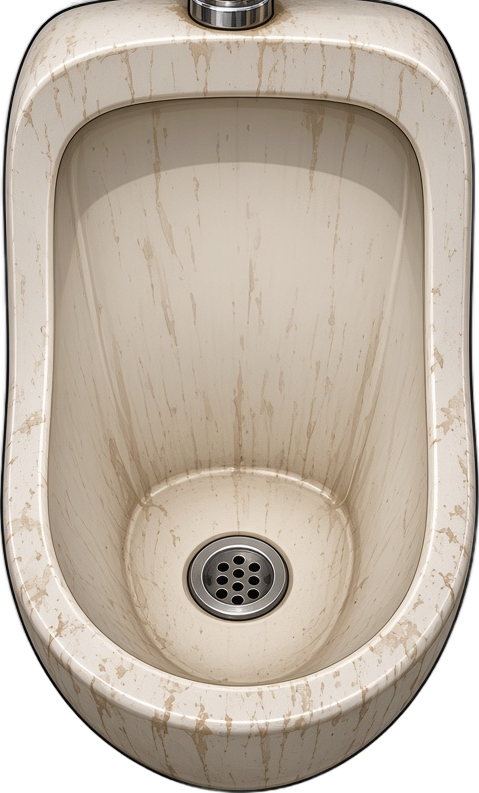
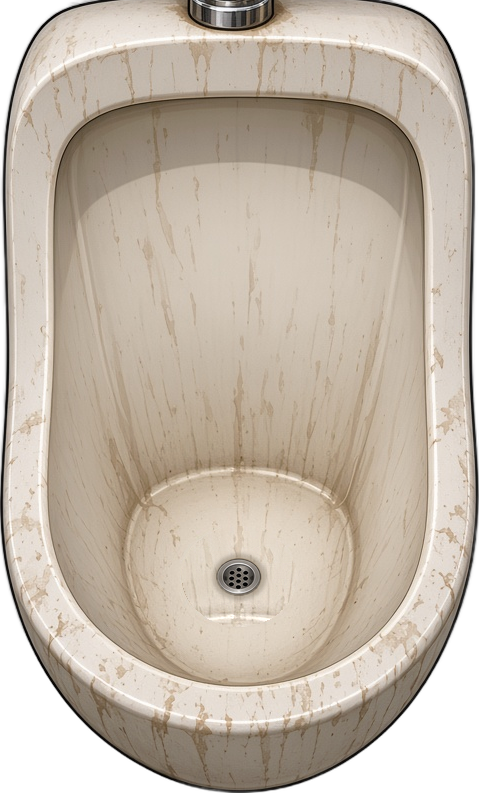
Bladder Brawl v4: stream falls from above with perspective, small drain, ricochet kicks, final boss retune

Changed region(s): [[0.38, 0.6658, 0.6138, 0.7869]]

diff --git a/bladder-brawl/game.js b/bladder-brawl/game.js
@@ -24,7 +24,7 @@ const BT={
  baby:{name:'Spiderling',r:12,hp:6,spd:44,pts:7,res:.1},
  bfly:{name:'BARON BLOWFLY',r:44,hp:520,spd:12,pts:300,res:.85,boss:1},
  bsnail:{name:'GENERAL GOO',r:46,hp:1100,spd:9,pts:500,res:.9,boss:1},
- bspider:{name:'MAMA LEGS',r:52,hp:1900,spd:10,pts:800,res:.9,boss:1}
+ bspider:{name:'MAMA LEGS',r:52,hp:1550,spd:10,pts:800,res:.9,boss:1}
 };
 const CH=[
  {n:'Gas Station Restroom',s:'Cracked tiles. Mystery smells. Bugs.',wall:['#3fa7a3','#2a7d83'],grout:'rgba(10,40,50,.35)',deco:'gas'},
@@ -105,8 +105,8 @@ function layout(){
   // urinal (sprite 479x793): interior top 13.5%, U-bottom 86%, drain at 72.9%
   const AR=793/479,avail=L.base-L.feet-(L.top+34);const Uh=Math.min(W*.96*AR,avail),Uw=Uh/AR;
   L.U={x:(W-Uw)/2,y:L.base-L.feet-Uh,w:Uw,h:Uh};
-  L.rimY=L.U.y+Uh*.08;L.spawnY=L.U.y+Uh*.83;L.bowlBot=L.U.y+Uh*.86;L.waterY=L.U.y+Uh*.729;L.drainX=L.U.x+Uw*.493;L.drainR=Uw*.075;
-  L.oy=H+14;L.wallH=L.bowlBot-L.rimY;
+  L.rimY=L.U.y+Uh*.08;L.spawnY=L.U.y+Uh*.83;L.bowlBot=L.U.y+Uh*.86;L.waterY=L.U.y+Uh*.729;L.drainX=L.U.x+Uw*.493;L.drainR=Uw*.048;
+  L.oy=L.bowlBot+14;L.wallH=L.bowlBot-L.rimY;
 }
 function resize(){const vw=innerWidth,vh=innerHeight;const ww=Math.min(vw,vh*0.62,560);SC=ww/W;H=Math.round(vh/SC);DPR=Math.min(2,devicePixelRatio||1);
   cv.style.width=ww+'px';cv.style.height=vh+'px';cv.width=Math.round(ww*DPR);cv.height=Math.round(vh*DPR);$('app').style.width=ww+'px';layout();bgKey='';}
@@ -177,14 +177,15 @@ function update(dt){
   if(G.dry&&G.bladder>=st.cap*.3)G.dry=false;
   G.firing=want&&!G.dry;
   if(G.firing){if(G.super<=0)G.bladder=Math.max(0,G.bladder-dt*11);}else G.bladder=Math.min(st.cap,G.bladder+dt*st.refill*(want?.5:1));
-  const ox=200+clamp((G.aim.x-200)*.06,-10,10),oy=L.oy;G.ox=ox;if(!SIMMODE)SCN.aimJitter(dt);
+  const ox=200+clamp((G.aim.x-200)*.06,-10,10),oy=L.bowlBot+14;/* virtual launch point (keeps v2 reach/lag) */G.ox=200+(G.aim.x-200)*.28+Math.sin(G.t*1.1)*7+Math.sin(G.t*2.7)*2;G.oy=-36+Math.sin(G.t*1.7)*3;if(!SIMMODE)SCN.aimJitter(dt);
   if(G.firing){G.emit+=dt*(SIMMODE?36:72);const per=SIMMODE?2:1;const dx=G.aim.x-ox,dy=G.aim.y-oy;const d=Math.min(Math.hypot(dx,dy),st.range),a0=Math.atan2(dy,dx);
     const offs=st.streams===1?[0]:st.streams===2?[-.1,.1]:[-.17,0,.17];
-    while(G.emit>=1){G.emit-=1;G.seq++;offs.forEach((off,si)=>{const a=a0+off+Math.sin(G.t*13+si)*.012,dd=d*(off?.97:1)*(1+.012*Math.sin(G.t*9+si));const tx2=ox+Math.cos(a)*dd,ty2=oy+Math.sin(a)*dd;const tf=.15+Math.max(0,Math.hypot(tx2-ox,ty2-oy)-(L.oy-L.bowlBot-14))/1500,g=900;
-      G.drops.push({x:ox,y:oy,vx:(tx2-ox)/tf,vy:(ty2-oy)/tf-.5*g*tf,age:0,tf,sid:si,seq:G.seq,dmg:st.dps/72*per*(off?.62:1),kb:st.kb/72*per*(off?.7:1)*6,rad:st.rad*(off?.85:1)});});}
+    while(G.emit>=1){G.emit-=1;G.seq++;offs.forEach((off,si)=>{const a=a0+off+Math.sin(G.t*13+si)*.012,dd=d*(off?.97:1)*(1+.012*Math.sin(G.t*9+si));const tx2=ox+Math.cos(a)*dd,ty2=oy+Math.sin(a)*dd;const tf=.15+Math.hypot(tx2-ox,ty2-oy)/1500;
+      G.drops.push({x:G.ox,y:G.oy,ox:G.ox+(si-(st.streams-1)/2)*5,oy:G.oy,tx:tx2,ty:ty2,u:0,age:0,tf,sid:si,seq:G.seq,dmg:st.dps/72*per*(off?.62:1),kb:st.kb/72*per*(off?.7:1)*6,rad:st.rad*(off?.85:1)});});}
+    if(!SIMMODE&&G.drops.length>6&&rnd()<dt*22){const d=G.drops[Math.floor(rnd()*G.drops.length)];if(!d.dribble&&d.u>.2&&d.u<.9)G.parts.push({k:'drop',x:d.x+rand(-3,3),y:d.y,vx:rand(-30,30),vy:rand(80,200),t:0,life:rand(.15,.3),r:rand(1,2.4)*(1.4-d.u),col:'#ffe27a'});}
     if(!SIMMODE)streamSnd(1,2300+S.up.pres*300+(G.super>0?700:0));
-  }else{G.emit=0;if(!SIMMODE){streamSnd(0);if(want&&G.dry&&rnd()<dt*5){SFX.sput();G.drops.push({x:ox,y:oy,vx:rand(-50,50),vy:rand(-240,-160),age:0,tf:.5,sid:9,seq:-99,dmg:0,kb:0,rad:0,dribble:1});}}}
-  for(let i=G.drops.length-1;i>=0;i--){const d=G.drops[i];d.vy+=900*dt;d.x+=d.vx*dt;d.y+=d.vy*dt;d.age+=dt;if(d.age>=d.tf){G.drops.splice(i,1);if(!d.dribble)impact(d);}}
+  }else{G.emit=0;if(!SIMMODE){streamSnd(0);if(want&&G.dry&&rnd()<dt*5){SFX.sput();G.drops.push({x:G.ox+rand(-6,6),y:-6,vx:rand(-20,20),vy:rand(260,340),age:0,tf:.5,sid:9,seq:-99,dmg:0,kb:0,rad:0,dribble:1});}}}
+  for(let i=G.drops.length-1;i>=0;i--){const d=G.drops[i];d.age+=dt;if(d.dribble){d.vy+=900*dt;d.x+=d.vx*dt;d.y+=d.vy*dt;}else streamPos(d);if(d.age>=d.tf){G.drops.splice(i,1);if(!d.dribble)impact(d);}}
   for(let i=G.parts.length-1;i>=0;i--){const p=G.parts[i];p.t+=dt;if(p.t>=p.life){G.parts.splice(i,1);continue;}p.x+=p.vx*dt;p.y+=p.vy*dt;if(p.k==='drop')p.vy+=800*dt;}
   for(let i=G.pops.length-1;i>=0;i--){const p=G.pops[i];p.t+=dt;if(p.t>=p.dur)G.pops.splice(i,1);}
   for(let i=G.stains.length-1;i>=0;i--){const s=G.stains[i];s.a-=dt*(G.flushFx?.8:.03);if(s.a<=0)G.stains.splice(i,1);}
@@ -201,11 +202,15 @@ function update(dt){
   if(G.lives>0&&!G.queue.length&&!G.bugs.length){if(G.clearT<0)G.clearT=0;G.clearT+=dt;if(G.clearT>1){G.clearT=-1;endLevel(true);}}
   if(!SIMMODE&&!BOT.on){/* tutorial nudge */}
 }
+/* stream falls from the player above the camera: quadratic arc O->T, accelerating (gravity), perspective handled in drawStream */
+function streamPos(d){const u=Math.min(1,d.age/d.tf),e=u*(.55+.45*u),cx=d.ox+(d.tx-d.ox)*.62+(d.tx>d.ox?-1:1)*Math.min(40,Math.abs(d.tx-d.ox)*.3),cy=d.oy+(d.ty-d.oy)*.22,m=1-e;d.u=e;
+  d.x=m*m*d.ox+2*m*e*cx+e*e*d.tx+Math.sin(d.seq*.9+d.age*30)*1.6*m;d.y=m*m*d.oy+2*m*e*cy+e*e*d.ty;d.x=e>=1?d.tx:d.x;d.y=e>=1?d.ty:d.y;}
 function impact(d){const x=d.x,y=d.y;if(!SIMMODE&&SCN.impact(d))return;if(y<L.rimY-16){if(!SIMMODE&&rnd()<.3)G.parts.push({k:'drop',x,y,vx:rand(-60,60),vy:rand(-60,30),t:0,life:.5,r:2,col:'#ffe56b'});return;}
   const r2=d.rad;for(const b of G.bugs){if(b.dead||b.esc!=null)continue;const R=BT[b.type].r+r2,dx=b.x-x,dy=b.y-y;if(dx*dx+dy*dy<R*R)damage(b,d.dmg,d.kb);}
   if(G.power&&!G.power.got&&Math.hypot(G.power.x-x,G.power.y-y)<r2+20){const p=G.power;p.got=true;p.t=0;G.bladder=stats().cap;G.super=6;pop(p.x,p.y-20,'MEGA STREAM!','#9fffd0',26,1.3);burst(p.x,p.y,14,'#9fffd0',260);G.bounce=1;if(!SIMMODE){SFX.power();vib(40);}}
   if(SIMMODE)return;
-  if(rnd()<.55)G.parts.push({k:'drop',x:x+rand(-r2,r2)*.4,y,vx:rand(-130,130),vy:rand(-200,-60),t:0,life:rand(.25,.45),r:rand(1.6,3.4),col:'#ffe56b'});
+  const dk=.55+.75*clamp((y-L.rimY)/L.wallH,0,1);SCN.splash(x,y,dk);
+  if(rnd()<.6)G.parts.push({k:'drop',x:x+rand(-r2,r2)*.4,y,vx:rand(-130,130)*dk,vy:rand(-200,-60)*dk,t:0,life:rand(.25,.45),r:rand(1.4,3.2)*dk,col:'#ffe56b'});
   if(rnd()<.1){G.stains.push({x:x+rand(-8,8),y:y+rand(-6,6),r:rand(6,14),a:.3});if(G.stains.length>60)G.stains.shift();}}
 function updBug(b,dt){const T=BT[b.type];b.t+=dt;b.spawnT+=dt;b.sqT+=dt;if(b.hitT>0){b.hitT-=dt;if(b.hitT<=0&&!b.dead)b.mood=b.type==='bspider'?2:0;}
   b.bl-=dt;if(b.bl<=0){b.bl=rand(2,5);}b.blink=b.bl<.12?1:0;
@@ -221,7 +226,7 @@ function updBug(b,dt){const T=BT[b.type];b.t+=dt;b.spawnT+=dt;b.sqT+=dt;if(b.hit
    case 'snail':case 'bsnail':if(b.hide>0){b.hide-=dt;up=0;}if(b.type==='bsnail'){vx=Math.sin(b.t*.6)*30;b.cd-=dt;if(b.cd<=0){b.cd=4.2;for(const s of[-1,1])spawn({type:'ant',x:clamp(b.x+s*50,70,330),y:b.y+10}).spawnT=0;}}break;
    case 'gecko':if(b.noTail)up*=1.35;b.mvT-=dt;if(b.mvT<=0){b.dir=-b.dir;b.mvT=rand(.4,.75);}vx=b.dir*up*1.1;up*=.8;break;
    case 'bfly':vx=Math.sin(b.t*.8)*50;b.cd-=dt;if(b.cd<=0){b.cd=3.4;for(const s of[-1,1])spawn({type:rnd()<.5?'fly':'mosq',x:clamp(b.x+s*50,70,330),y:b.y+10}).spawnT=0;}break;
-   case 'bspider':vx=Math.sin(b.t*.7)*40;b.cd-=dt;if(b.cd<=0){b.cd=2.8;for(const s of[-1,0,1])spawn({type:'baby',x:clamp(b.x+s*55,70,330),y:b.y+16}).spawnT=0;}break;
+   case 'bspider':vx=Math.sin(b.t*.7)*40;b.cd-=dt;if(b.cd<=0){b.cd=3.3;for(const s of[-1,0,1])spawn({type:'baby',x:clamp(b.x+s*55,wallL(b.y+16)+14,wallR(b.y+16)-14),y:b.y+16}).spawnT=0;}break;
   }
   if(b.spawnT<.35){up*=.2;vx*=.2;}if(G.flushFx&&!T.boss&&G.flushFx.t<1.3)up=0;
   const vy=-up+b.kbV;b.kbV*=Math.exp(-dt*5);b.x+=vx*dt;b.y+=vy*dt;
@@ -270,12 +275,19 @@ function render(){const c=cx;c.setTransform(DPR*SC,0,0,DPR*SC,0,0);
   hudTick();
 }
 function drawStream(c){if(!G.drops.length)return;const by={};for(const d of G.drops){if(d.dribble){circ(c,d.x,d.y,2.5);c.fillStyle='#ffe56b';c.fill();continue;}(by[d.sid]=by[d.sid]||[]).push(d);}
-  const st=stats();for(const k in by){const a=by[k].sort((p,q)=>q.seq-p.seq);const segs=[];let cur=[a[0]];for(let i=1;i<a.length;i++){if(a[i-1].seq-a[i].seq>2){segs.push(cur);cur=[];}cur.push(a[i]);}segs.push(cur);
-    for(const s of segs){if(s.length<2)continue;const w=st.w*(k>0?.8:1);c.lineCap='round';c.lineJoin='round';
-      const path=()=>{c.beginPath();c.moveTo(s[0].x,s[0].y);for(let i=1;i<s.length;i++)c.lineTo(s[i].x,s[i].y);};
-      path();c.strokeStyle='rgba(120,80,0,.35)';c.lineWidth=w+5;c.stroke();path();c.strokeStyle=G.super>0?'#7dffc4':'#ffc928';c.lineWidth=w+1.5;c.stroke();path();c.strokeStyle=G.super>0?'#e5fff3':'#fff19a';c.lineWidth=w*.45;c.stroke();
-      const e=s[s.length-1];c.globalAlpha=.8;circ(c,e.x,e.y,w*.9);c.fillStyle='#fff6c0';c.fill();c.globalAlpha=1;
-      for(let i=2;i<s.length;i+=6){const d=s[i];c.fillStyle='rgba(255,255,255,.85)';circ(c,d.x+Math.sin(d.seq)*w*.3,d.y,1.4);c.fill();}}}}
+  const st=stats(),sup=G.super>0;c.lineCap='round';
+  for(const k in by){const a=by[k].sort((p,q)=>q.seq-p.seq);const segs=[];let cur=[a[0]];for(let i=1;i<a.length;i++){if(a[i-1].seq-a[i].seq>2){segs.push(cur);cur=[];}cur.push(a[i]);}segs.push(cur);
+    for(const s of segs){const z=s[s.length-1];if(z.u>.5)s.push({x:z.tx,y:z.ty,u:1,seq:z.seq-1});if(s.length<2)continue;const w0=st.w*(k>0?.8:1);
+      // depth: near the camera (top, u~0) the stream is thick and soft; far end (impact) thin and crisp
+      const W_=d=>w0*(3.6-2.7*d.u);
+      const pass=(col,mul,alpha,from)=>{c.strokeStyle=col;for(let i=from||1;i<s.length;i++){const p=s[i-1],q=s[i];c.globalAlpha=typeof alpha==='function'?alpha(q):alpha;c.lineWidth=W_(q)*mul;c.beginPath();c.moveTo(p.x,p.y);c.lineTo(q.x,q.y);c.stroke();}};
+      pass(sup?'rgba(120,255,200,1)':'rgba(255,214,60,1)',1.9,d=>.16*(1-d.u));           // soft near-camera blur halo
+      pass('rgba(110,70,0,1)',1.12,d=>.22+.2*d.u);                                       // contact edge, sharper when far
+      pass(sup?'#7dffc4':'#ffc928',1,d=>.55+.3*d.u);                                      // translucent body
+      pass(sup?'#f0fff8':'#fff3a8',.38,d=>.5+.4*d.u);                                     // highlight
+      c.globalAlpha=1;
+      const e=s[s.length-1];if(e.u>.98){c.globalAlpha=.75;circ(c,e.x,e.y,w0*.85);c.fillStyle='#fff6c0';c.fill();c.globalAlpha=1;}
+      for(let i=3;i<s.length;i+=5){const d=s[i];c.fillStyle='rgba(255,255,255,.8)';circ(c,d.x+Math.sin(d.seq)*W_(d)*.25,d.y,.8+1.4*(1-d.u));c.fill();}}}}
 /* ---------------- HUD / UI ---------------- */
 let hudLast={};
 function hudInit(){$('hud').classList.add('on');$('bossbar').classList.remove('on');$('hLvl').textContent='Level '+curL;hudLast={};hudHearts();hudFlush();}

diff --git a/bladder-brawl/scene.js b/bladder-brawl/scene.js
@@ -9,15 +9,15 @@ const SCN=(function(){
   const DOOR=["HURRY UP!","YOU DIED IN THERE?!","OTHER PEOPLE GOTTA GO!","BRO. COME ON."];
   let S;
   function reset(){S={t:0,ev:null,feet:[{side:-1,wet:0,jerk:9},{side:1,wet:0,jerk:9}],kicks:0,kickCD:0,hopCD:0,bub:null,kickShow:0,
-    puddles:[],phone:{t:R(14,22),buzz:0,dead:0,shake:0},can:{st:0,hit:0,x:0,y:0,vx:0,vy:0,r:0},
+    puddles:[],rip:[],streaks:[],ripT:0,phone:{t:R(14,22),buzz:0,dead:0,shake:0},can:{st:0,hit:0,x:0,y:0,vx:0,vy:0,r:0},
     target:{t:R(9,15),on:0,hit:0},door:{t:R(24,38),fx:0},pipe:{shake:0,glug:0,lastQ:null,lever:0},cache:{}};}
   reset();
   const U=()=>L.U;
   // ---------- geometry ----------
   function footGeo(f){const hS=Math.min(170,L.feet*1.75),w=hS*.715;return {x:f.side<0?W*.27:W*.73,base:H+hS*.14,h:hS,w};}
   function pipeGeo(){const u=U(),h=u.h*.44,w=h*354/700;return {x:W/2,bot:u.y+u.h*.05,h,w,top:u.y+u.h*.05-h};}
-  function phonePos(){const u=U();return {x:u.x+u.w*.2,y:u.y+u.h*.055,h:Math.max(30,u.h*.075)};}
-  function canHome(){const u=U();return {x:u.x+u.w*.8,y:u.y+u.h*.055,h:Math.max(30,u.h*.075)};}
+  function phonePos(){const u=U();return {x:u.x+u.w*.15,y:u.y+u.h*.06,h:Math.max(30,u.h*.075)};}
+  function canHome(){const u=U();return {x:u.x+u.w*.85,y:u.y+u.h*.06,h:Math.max(30,u.h*.075)};}
   function sfx(k){if(typeof AU==='undefined'||!AU.ctx||AU.ctx.state!=='running'||!S)return;try{
     if(k==='bleep')tone('sine',1050,1040,.38,.16);
     else if(k==='splat'){nz(.2,.3,900,250,1.2);}
@@ -45,7 +45,9 @@ const SCN=(function(){
     // fly-target sticker (does not consume: the stream still hits bugs)
     const tg=S.target;if(tg.on>0&&near(x,y,tg,20)){tg.hit+=1;if(tg.hit>=10){tg.on=0;G.earned+=6;pop(tg.x,tg.y-30,'BULLSEYE! +6','#ffd23a',20,1.1);sfx('ding');burst(tg.x,tg.y,14,'#ffd23a',220);}}
     // sneakers
-    for(const f of S.feet){const g=footGeo(f);if(Math.abs(x-g.x)<g.w*.42&&y>g.base-g.h*.98&&y<g.base-g.h*.25){kick(f,x,y);return true;}}
+    for(const f of S.feet){const g=footGeo(f);if(Math.abs(x-g.x)<g.w*.6&&y>g.base-g.h*1.2){const sx=g.x+(Math.random()-.5)*g.w*.4,sy=g.base-g.h*(.55+Math.random()*.3);
+      for(let i=0;i<3;i++)G.parts.push({k:'drop',x,y,vx:(sx-x)/.35+(Math.random()-.5)*40,vy:(sy-y)/.35-140,t:0,life:.35,r:2.2,col:'#ffe56b'});burst(x,y,3,'#ffe56b',90);
+      if(!S.pend)S.pend={f,t:.3,x:sx,y:sy};return true;}}
     // inside the urinal or on the rim: normal gameplay
     if(y<L.rimY-16&&y>u.y-6&&x>u.x+u.w*.08&&x<u.x+u.w*.92)return false;
     if(y>=L.rimY-16&&y<=L.bowlBot+8&&x>wallL(y)-6&&x<wallR(y)+6)return false;
@@ -57,10 +59,12 @@ const SCN=(function(){
     const tier=Math.min(2,Math.floor((S.kicks-1)/2));S.bub={txt:pick(LINES[tier]),t:0,side:f.side,tier};
     const pen=Math.min(G.earned,2+tier*2);G.earned-=pen;pop(W/2,H-L.feet*1.9,'KICKS RUINED x'+S.kicks+(pen?'  -'+pen:''),'#ff8a5c',15,1.3);
     sfx('splat');sfx('bleep');if(typeof vib==='function')vib(30);}
+  function splash(x,y,k){if(!S)return;if(S.ripT<=0){S.ripT=.11;S.rip.push({x,y,k,t:0});if(S.rip.length>8)S.rip.shift();}
+    if(Math.random()<.05&&S.streaks.length<22&&y<L.waterY-70){const v=L.drainX-x,len=L.waterY-y;S.streaks.push({x,y,dx:v/Math.max(1,len),len:0,max:len*(.5+Math.random()*.45),v:60+Math.random()*60,t:0,w:(1.5+Math.random()*2)*k});}}
   function onPipe(x,y){if(!S||G.state!=='play'||G.paused)return false;const p=pipeGeo();return Math.abs(x-p.x)<Math.max(34,p.w*.75)&&y>p.top+p.h*.2&&y<p.top+p.h*.78;}
   function aimJitter(dt){if(S&&S.phone.buzz>0&&G.firing){G.aim.x+=Math.sin(S.t*37)*2.2;G.aim.y+=Math.cos(S.t*29)*1.4;}}
   // ---------- update ----------
-  function update(dt){if(!S)return;S.t+=dt;if(S.ev)S.ev.t+=dt;S.kickCD-=dt;S.hopCD-=dt;S.kickShow-=dt;
+  function update(dt){if(!S)return;S.t+=dt;if(S.pend){S.pend.t-=dt;if(S.pend.t<=0){kick(S.pend.f,S.pend.x,S.pend.y);S.pend=null;}}S.ripT-=dt;for(const r of S.rip)r.t+=dt;S.rip=S.rip.filter(r=>r.t<.5);for(const k of S.streaks){k.t+=dt;k.len=Math.min(k.max,k.len+dt*k.v);}S.streaks=S.streaks.filter(k=>k.t<3.2);if(S.ev)S.ev.t+=dt;S.kickCD-=dt;S.hopCD-=dt;S.kickShow-=dt;
     for(const f of S.feet)f.jerk+=dt;if(S.bub){S.bub.t+=dt;if(S.bub.t>1.9)S.bub=null;}
     if(S.ev&&S.ev.k!=='win'&&S.ev.k!=='lose'&&S.ev.t>1)S.ev=null;
     for(const p of S.puddles)p.a=Math.min(.55,p.a+dt*2);
@@ -78,7 +82,9 @@ const SCN=(function(){
     if(P.glug>0&&Math.random()<dt*14)G.parts.push({k:'bub',x:L.drainX+R(-L.drainR,L.drainR),y:L.waterY,vx:R(-10,10),vy:R(-60,-25),t:0,life:.6,r:R(2,5),col:'rgba(220,240,255,.8)'});
   }
   // ---------- drawing ----------
-  function drawBack(c){if(!S)return;
+  function drawBack(c){if(!S)return;drawPipe(c);
+    for(const k of S.streaks){const a=Math.min(1,k.t*3)*Math.max(0,1-(k.t-2.2));if(a<=0)continue;c.globalAlpha=a*.28;c.strokeStyle='#d9b52a';c.lineWidth=k.w;c.lineCap='round';c.beginPath();c.moveTo(k.x,k.y);c.quadraticCurveTo(k.x+k.dx*k.len*.3,k.y+k.len*.5,k.x+k.dx*k.len*.9,k.y+k.len);c.stroke();c.globalAlpha=a*.5;c.fillStyle='#e8c94a';c.beginPath();c.arc(k.x+k.dx*k.len*.9,k.y+k.len,k.w*.9,0,6.283);c.fill();}
+    for(const r of S.rip){const q=r.t/.5;c.globalAlpha=(1-q)*.55;c.strokeStyle='#fff6c8';c.lineWidth=1.5;c.beginPath();c.ellipse(r.x,r.y,(6+22*q)*r.k,(3+9*q)*r.k,0,0,6.283);c.stroke();}c.globalAlpha=1;
     for(const p of S.puddles){c.globalAlpha=p.a;c.beginPath();c.ellipse(p.x,p.y,p.r*(p.floor?1.6:1),p.r*(p.floor?.55:.9),0,0,6.283);c.fillStyle='#f2cf2c';c.fill();}c.globalAlpha=1;
     const tg=S.target;if(tg.on>0){const a=Math.min(1,tg.on,(7-tg.on)*3);c.save();c.globalAlpha=a*.95;c.translate(tg.x,tg.y);const s=1+Math.sin(S.t*6)*.06;c.scale(s,s);
       c.strokeStyle='#e8233f';c.lineWidth=3;for(const r of [18,11]){c.beginPath();c.arc(0,0,r,0,6.283);c.stroke();}c.fillStyle='#e8233f';c.beginPath();c.arc(0,0,4,0,6.283);c.fill();
@@ -128,7 +134,7 @@ const SCN=(function(){
     if(P.lever>0){c.globalCompositeOperation='lighter';c.globalAlpha=P.lever*.8;c.fillStyle='#bff0ff';c.beginPath();c.ellipse(p.w*.18,p.h*.45,p.w*.4,p.h*.08,0,0,6.283);c.fill();c.globalCompositeOperation='source-over';c.globalAlpha=1;}
     else if(G.flushes>0&&G.danger){c.globalAlpha=.5+.4*Math.sin(S.t*8);c.strokeStyle='#7dffb0';c.lineWidth=3;c.beginPath();c.ellipse(0,p.h*.46,p.w*.62,p.h*.12,0,0,6.283);c.stroke();c.globalAlpha=1;}
     c.restore();}
-  function drawFront(c){if(!S)return;drawPipe(c);drawFeet(c);bubble(c);
+  function drawFront(c){if(!S)return;drawFeet(c);bubble(c);
     const dr=S.door;if(dr.fx>0){const a=Math.min(1,dr.fx*1.5);c.save();c.globalAlpha=a;c.font='26px '+FONT;c.textAlign='center';c.lineWidth=6;c.strokeStyle='#111';c.fillStyle='#ffd23a';const y=L.U.y-6+Math.sin(S.t*30)*2*a;c.translate(W/2,y);c.rotate(-.05);c.strokeText(dr.txt,0,0);c.fillText(dr.txt,0,0);c.restore();}}
-  return {reset,update,impact,drawBack,drawFront,ev,onPipe,aimJitter,_pose:f=>footPose(f),_geo:f=>footGeo(f),get st(){return S;}};
+  return {splash,reset,update,impact,drawBack,drawFront,ev,onPipe,aimJitter,_pose:f=>footPose(f),_geo:f=>footGeo(f),get st(){return S;}};
 })();

diff --git a/bladder-brawl/BALANCE.md b/bladder-brawl/BALANCE.md
@@ -36,3 +36,13 @@ presentation/bonus only and are disabled in `?sim`. Bot sim re-run (6 runs/level
 0.6  100 100 100 100 100 100 100 100 100 100 100 100 100 100 83 100 100 0
 0.85 100 100 100 100 100 100 100 100 100 100 100 100 100 100 100 100 100 100
 ```
+
+## v4 stream from above (Oct 2026)
+The stream now falls from the player above the camera (origin off the top edge, sways with aim) on an accelerating arc
+to the aimed point. Reach and flight time still use a virtual launch point at the bowl bottom, so aim lag matches v2.
+Final boss MAMA LEGS: hp 1900 -> 1550, baby-spawn interval 2.8 s -> 3.3 s, babies clamped inside the urinal walls.
+```
+0.35 100 100 100 100 83 0 100 100 66 83 0 0 50 100 33 83 33 0
+0.6  100 100 100 100 100 83 100 100 83 100 100 100 100 100 100 100 100 33
+0.85 100 100 100 100 100 83 100 100 100 100 100 100 100 100 100 100 100 66
+```
